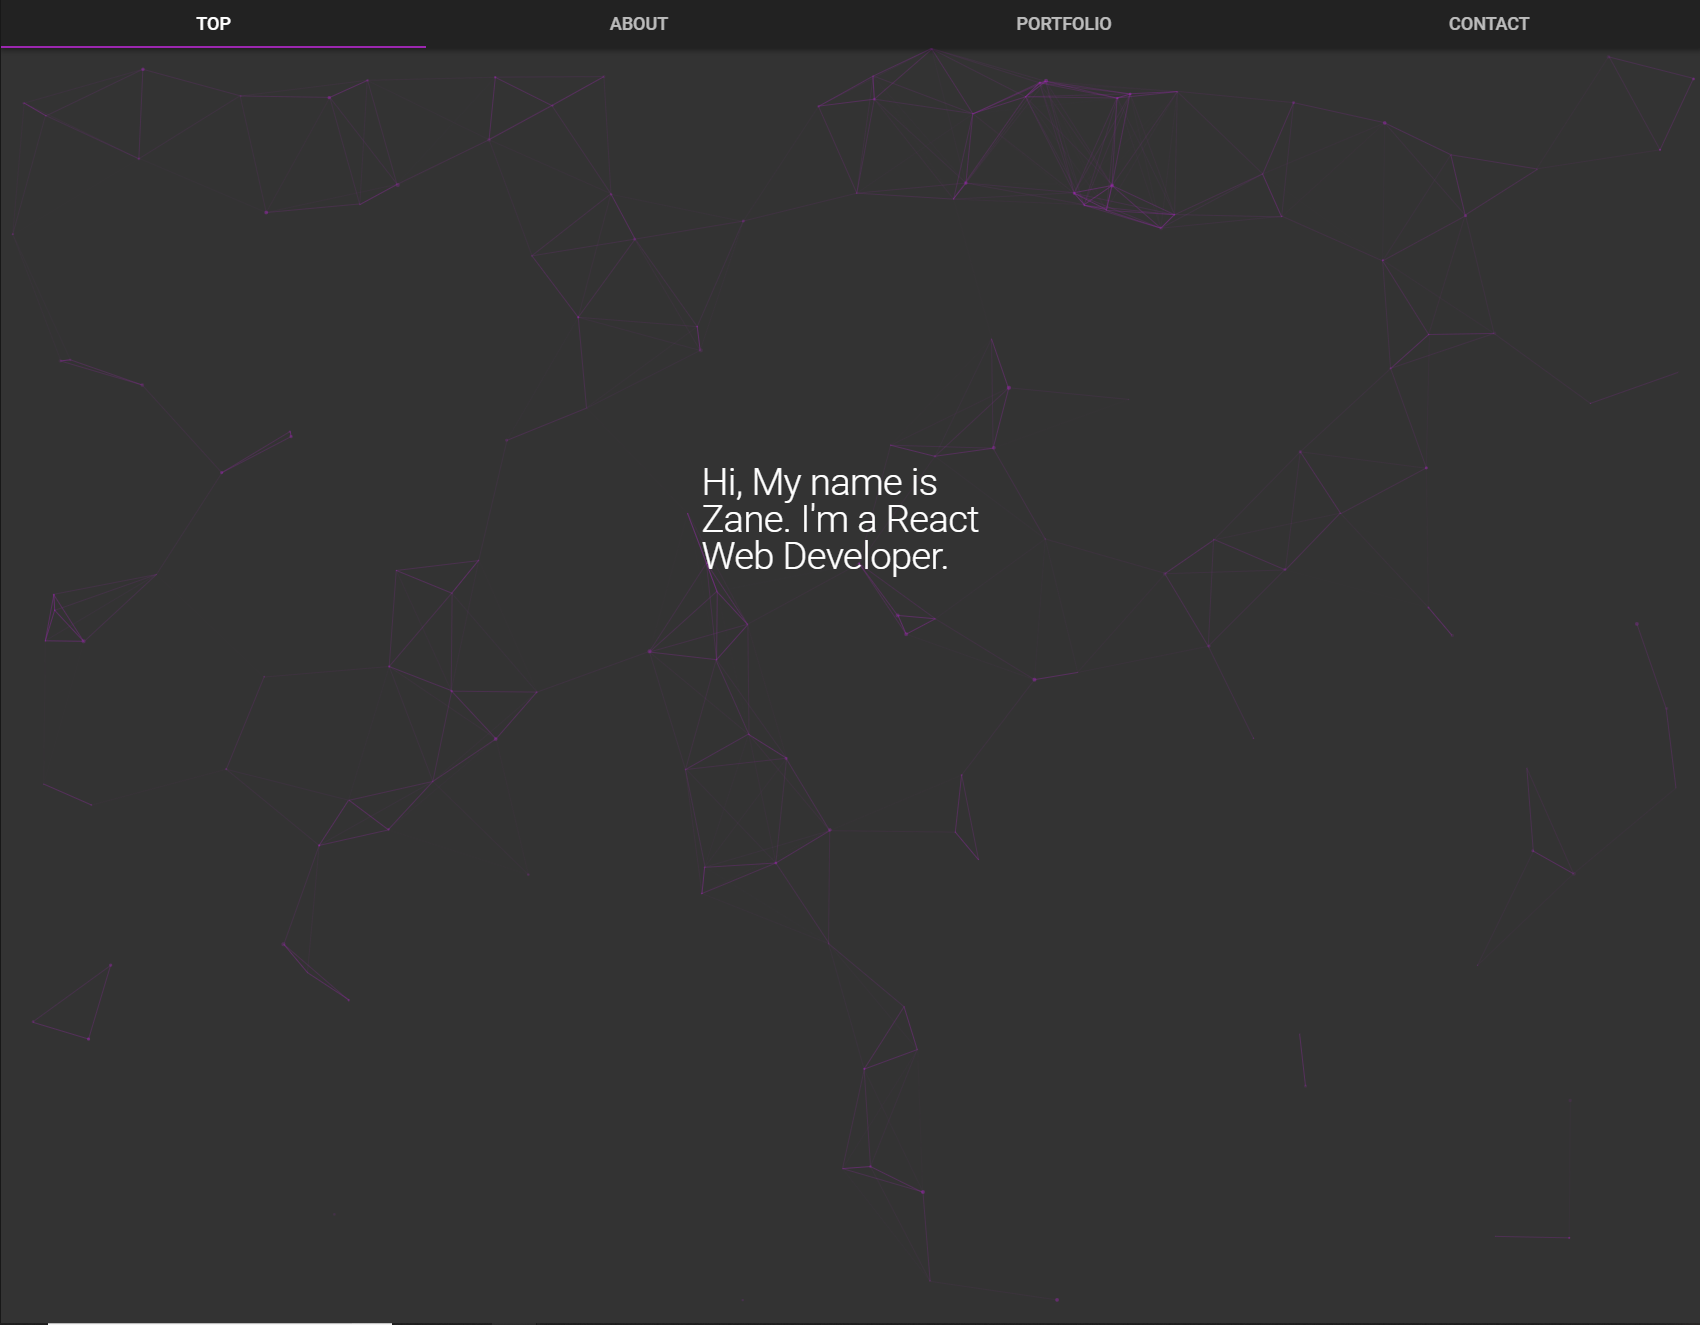
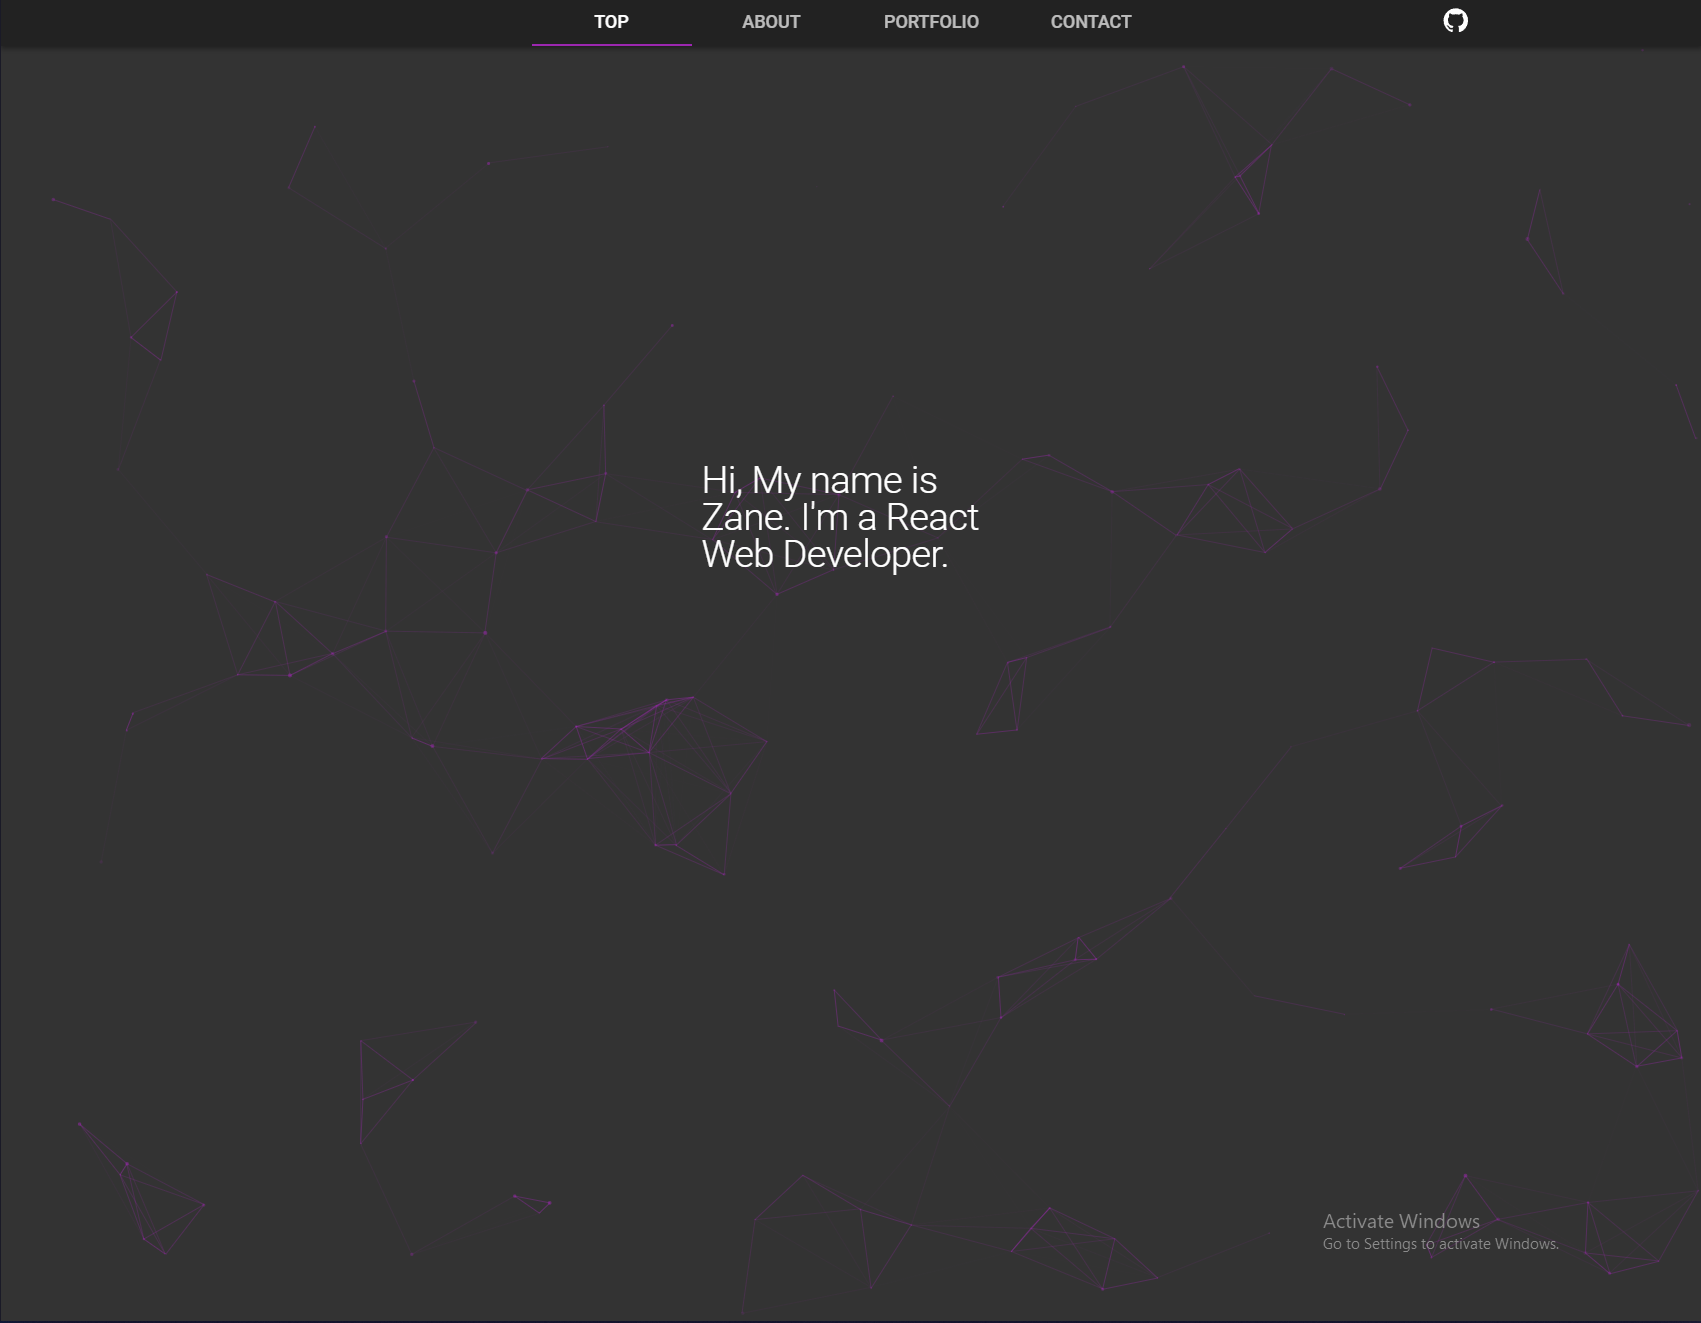
updated readme image

diff --git a/readme.md b/readme.md
@@ -13,4 +13,4 @@ or
 
 FROM CMD: yarn run dev-server, Open Browser, Go to: localhost:8080
 
-![portfolio site capture](https://user-images.githubusercontent.com/43912919/49347290-e0da8000-f651-11e8-8e08-55c563cc2600.PNG)
+![portfolio site capture](https://user-images.githubusercontent.com/43912919/51446843-4f3fd400-1ccc-11e9-8a2a-a356a6cf777e.PNG)
